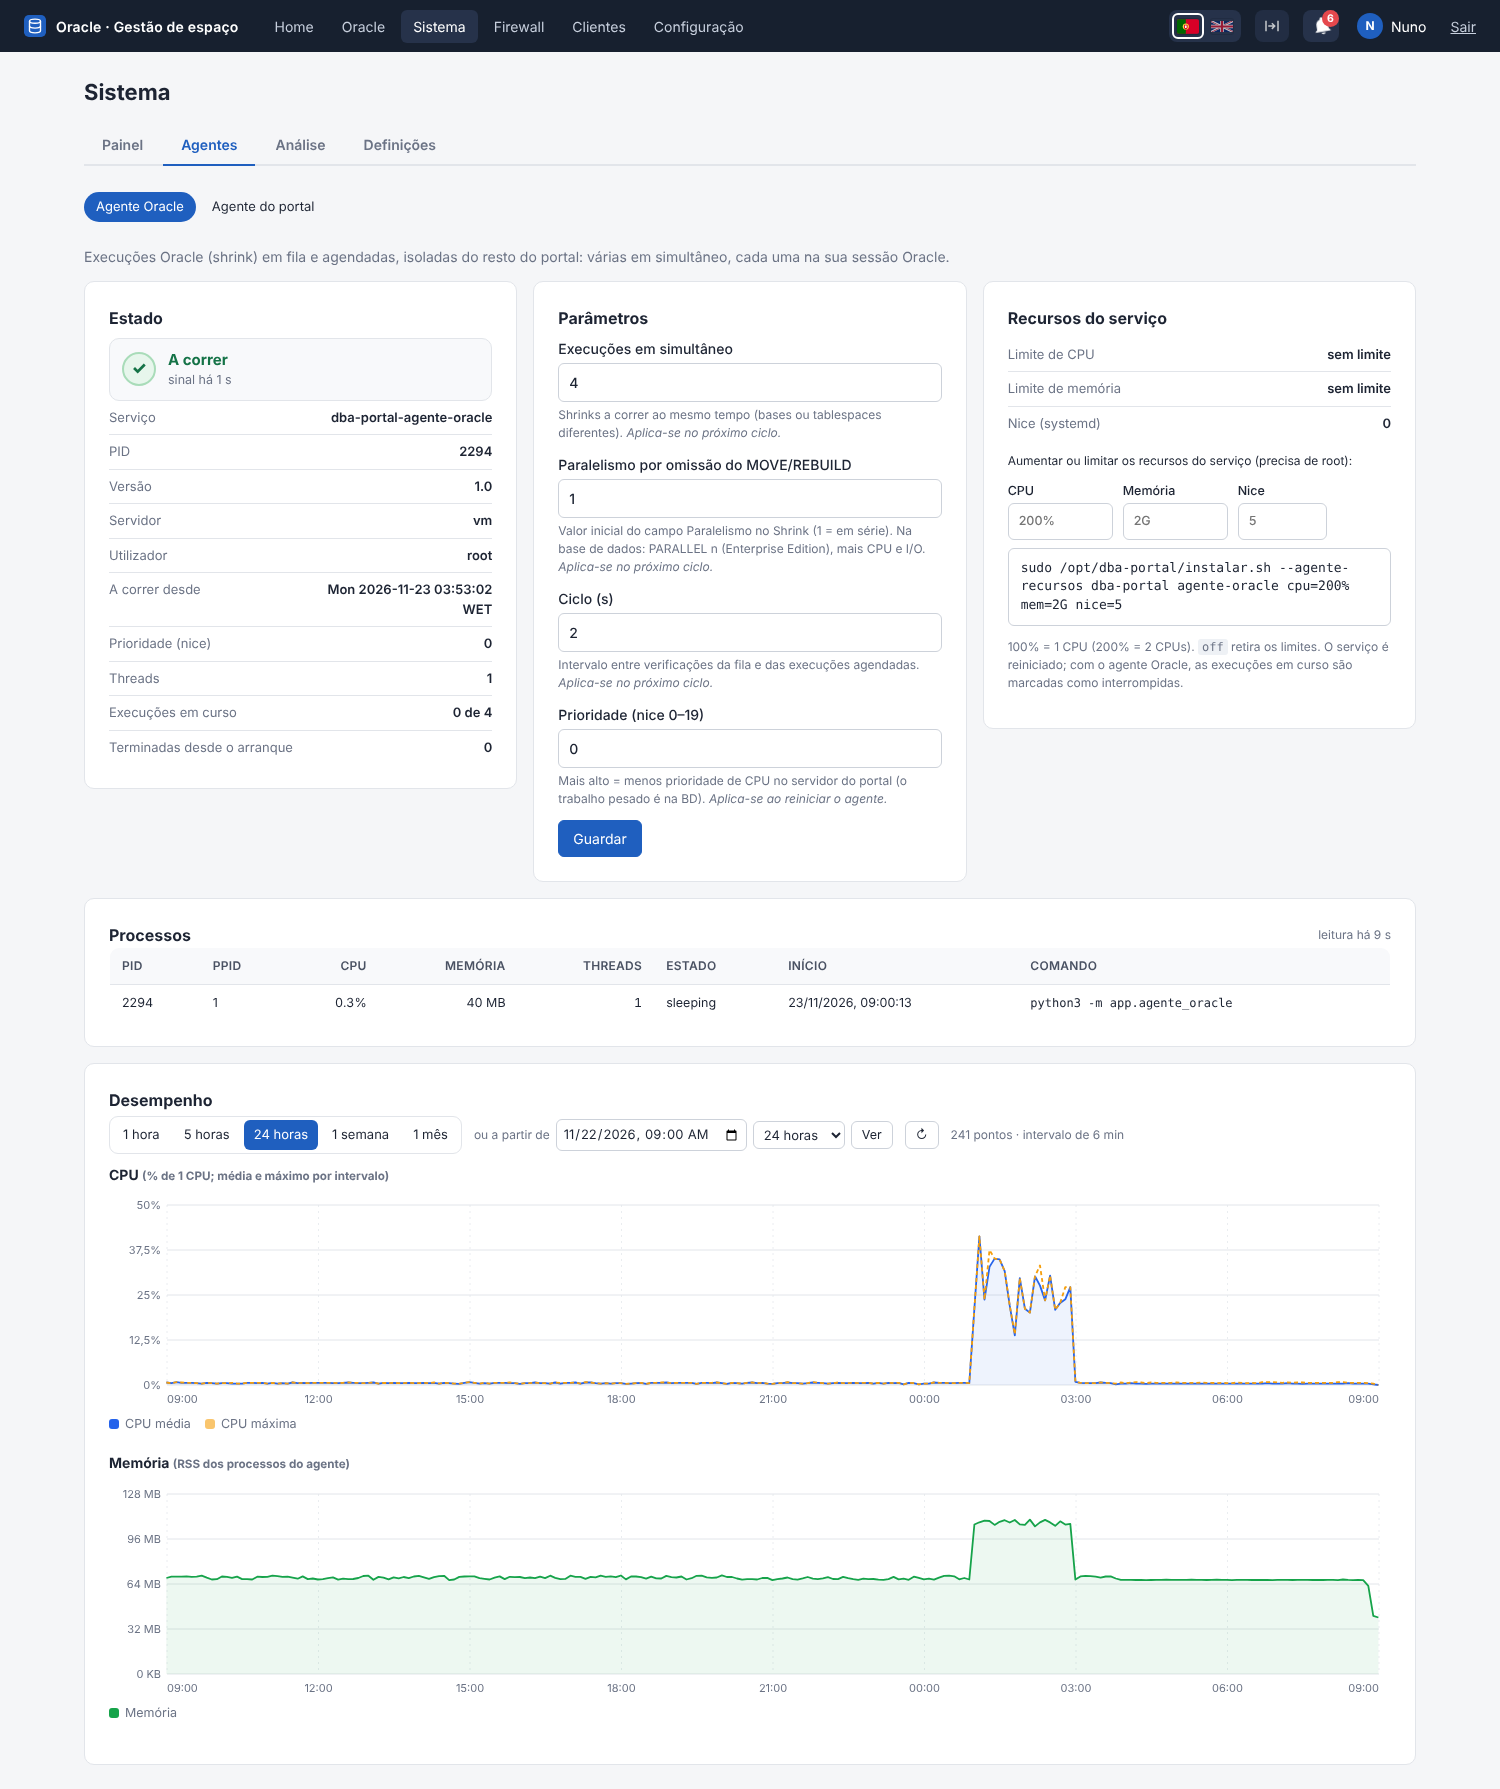
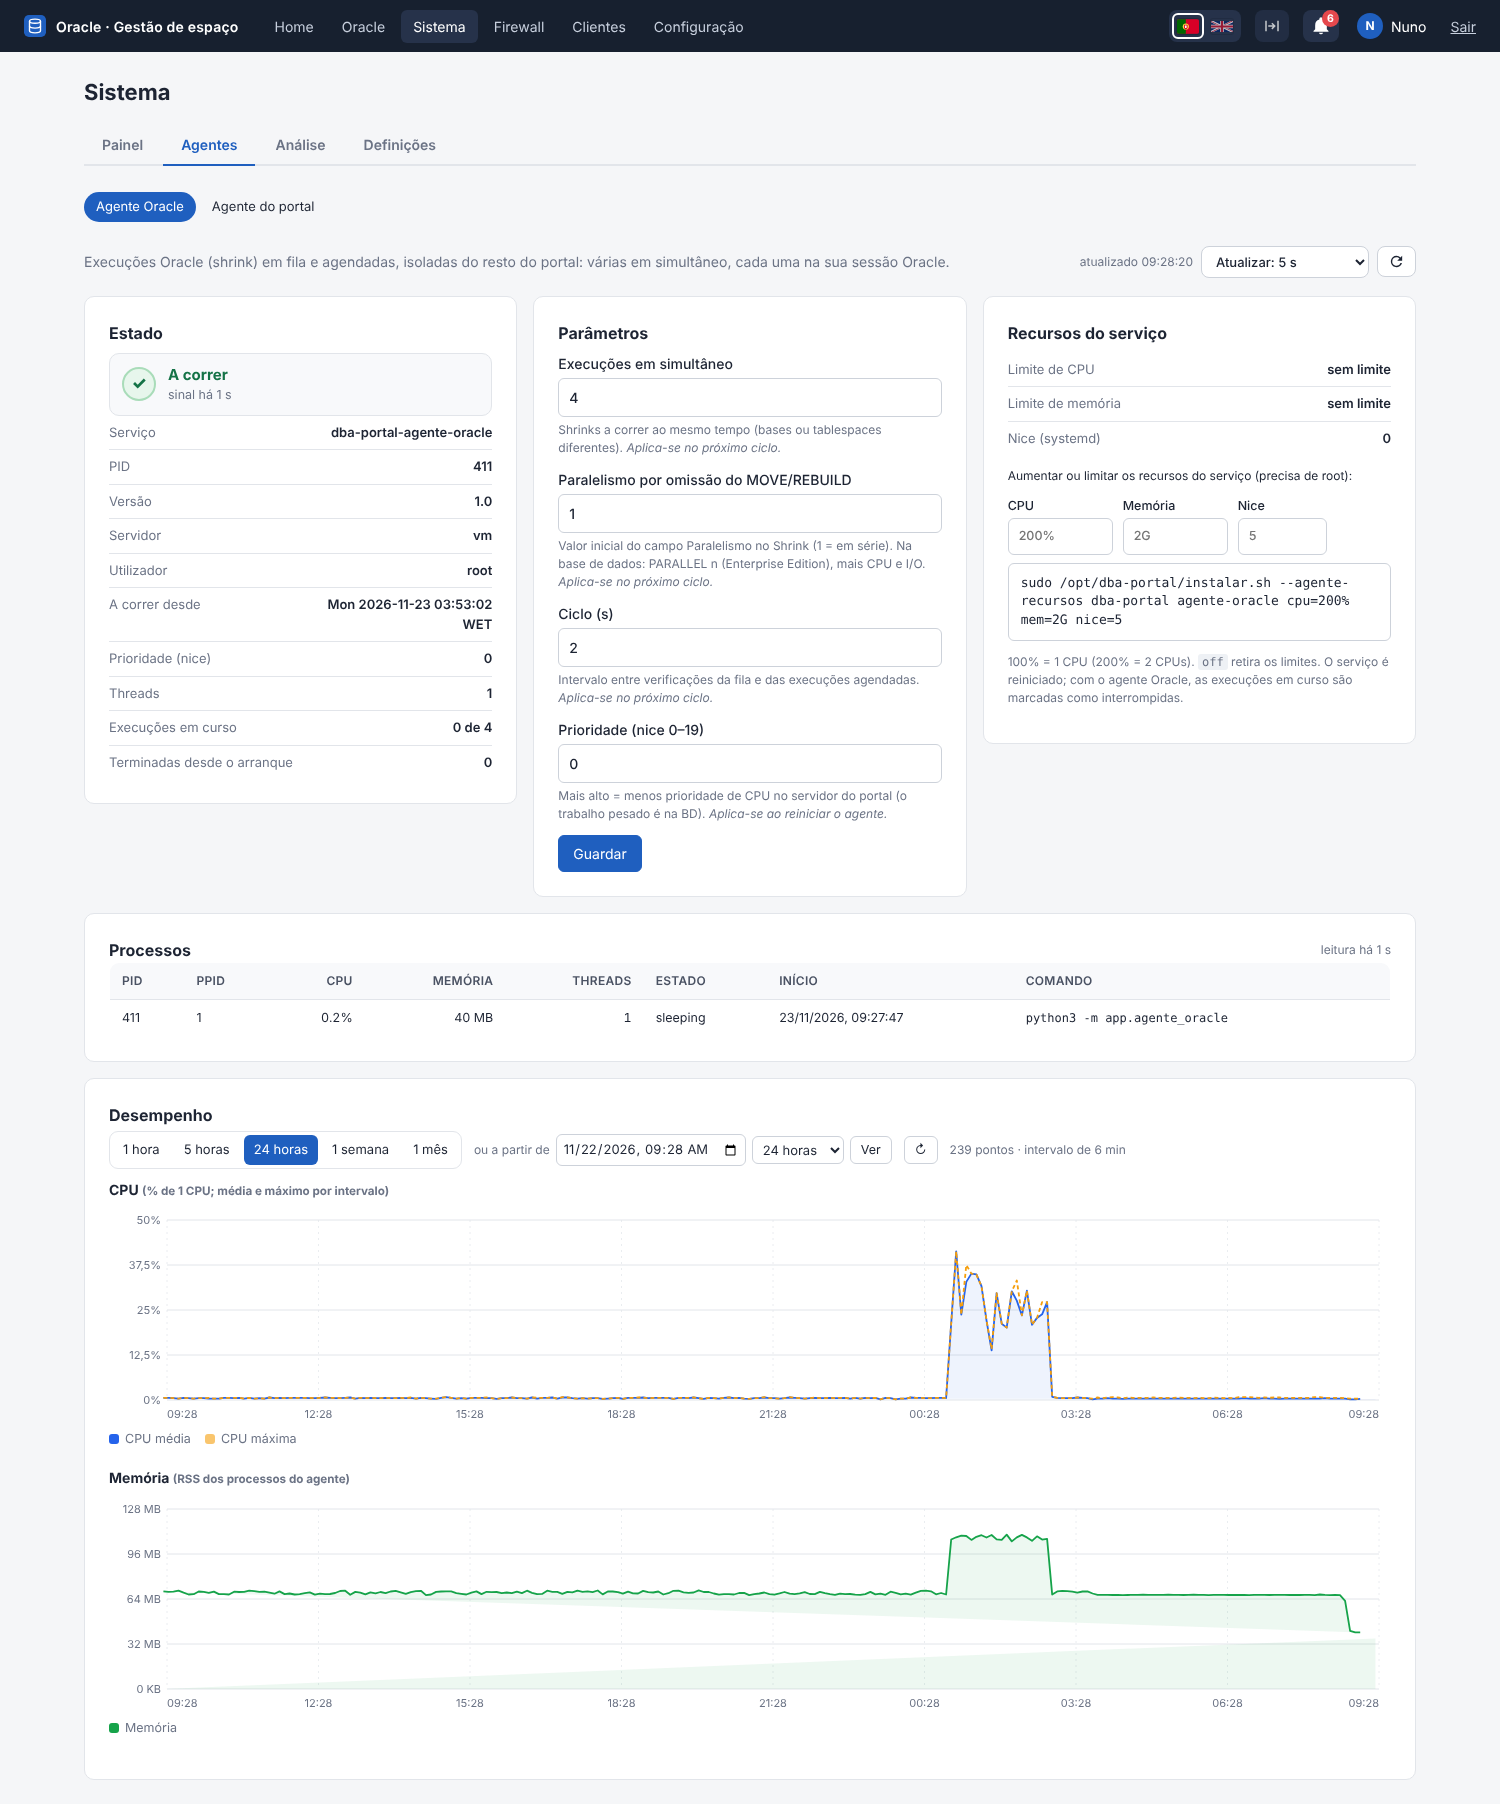
portal-oracle: atualizacao automatica configuravel em Sistema -> Agentes e Analise

diff --git a/docker/portal-oracle/app/modules/sistema/templates/sistema/agentes.html b/docker/portal-oracle/app/modules/sistema/templates/sistema/agentes.html
@@ -1,16 +1,17 @@
 {% extends "base.html" %}
-{% from "_cartoes.html" import kv, saude %}
+{% from "_cartoes.html" import kv, saude, controlos %}
 {% block title %}Sistema · Agentes{% endblock %}
 {% block content %}
 {% include "sistema/_tabs.html" %}
-<nav class="subtabs">
+<nav class="subtabs" data-ref="subtabs">
   {% for k, x in todos.items()|sort(attribute='0', reverse=True) %}
   <a href="{{ url_for('sistema.agentes', a=k) }}" class="{{ 'on' if k == a }}"><span class="dot d-{{ 'ok' if estados[k] else 'bad' }}"></span> {{ x.nome }}</a>{% endfor %}
 </nav>
-<p class="muted">{{ ag.descricao }}</p>
+<div class="dash-bar"><p class="muted" style="margin:0">{{ ag.descricao }}</p>
+  {{ controlos(editar=False, opcoes=((0, 'manual'), (5, '5 s'), (10, '10 s'), (30, '30 s'), (60, '1 min'), (300, '5 min'))) }}</div>
 
 <div class="fw-grid">
-<section class="card">
+<section class="card" data-ref="estado">
   <h2>Estado</h2>
   {% if est.ativo %}{{ saude('ok', 'A correr', 'sinal há ' ~ est.ha ~ ' s') }}
   {% else %}{{ saude('bad', 'Parado', 'sem sinal' ~ (' há ' ~ est.ha ~ ' s' if est.ha else '')) }}{% endif %}
@@ -40,7 +41,7 @@
 <section class="card">
   <h2>Recursos do serviço</h2>
   {% if recursos.backend == 'systemd' %}
-  {{ kv([('Limite de CPU', recursos.cpu), ('Limite de memória', recursos.mem), ('Nice (systemd)', recursos.nice), ('Máx. tarefas', recursos.tasks)]) }}
+  <div data-ref="rec">{{ kv([('Limite de CPU', recursos.cpu), ('Limite de memória', recursos.mem), ('Nice (systemd)', recursos.nice), ('Máx. tarefas', recursos.tasks)]) }}</div>
   <p class="small">Aumentar ou limitar os recursos do serviço (precisa de root):</p>
   <div class="rec-form">
     <label>CPU <input id="rcpu" placeholder="200%" size="6"></label>
@@ -55,7 +56,7 @@
 </section>
 </div>
 
-{% if em_curso %}
+<div data-ref="emcurso">{% if em_curso %}
 <section class="card full" style="margin-top:16px">
   <h2>Execuções em curso</h2>
   <div class="lista">{% for j in em_curso %}
@@ -64,7 +65,7 @@
         <small>{{ j.current_action or 'a correr' }}{% if j.progress %} · {{ (j.progress / 10)|round(0)|int }}%{% endif %} · desde {{ j.started_at }}{% if j.params.paralelo and j.params.paralelo > 1 %} · PARALLEL {{ j.params.paralelo }}{% endif %}</small></span></a>
   {% endfor %}</div>
 </section>
-{% endif %}
+{% endif %}</div>
 
 <section class="card full" style="margin-top:16px">
   <div class="modulo-head"><h2>Processos</h2><span class="muted small" id="pidade"></span></div>
@@ -84,6 +85,7 @@
 {% endblock %}
 {% block scripts %}
 {% include "sistema/_graficos_js.html" %}
+<script src="{{ url_for('static', filename='painel.js', v=static_v) }}"></script>
 <script>
 (() => {
   const A = '{{ a }}', T = s => (window.t ? window.t(s) : s), $ = id => document.getElementById(id);
@@ -103,8 +105,16 @@
         || `<tr><td colspan="8" class="muted">${T('Nenhum processo deste agente.')}</td></tr>`;
     } catch (e) {}
   }
-  procs(); setInterval(procs, 10000);
-  Periodo(async q => {
+  async function blocos() {   /* estado, recursos e execucoes em curso: o HTML da propria pagina */
+    const r = await fetch(location.href, {cache: 'no-store'});
+    if (!r.ok) throw new Error(r.status);
+    const doc = new DOMParser().parseFromString(await r.text(), 'text/html');
+    document.querySelectorAll('[data-ref]').forEach(el => {
+      const n = doc.querySelector(`[data-ref="${el.dataset.ref}"]`);
+      if (n && n.innerHTML !== el.innerHTML) el.innerHTML = n.innerHTML;
+    });
+  }
+  const graf = async q => {
     $('pinfo').textContent = T('A carregar…');
     const d = await buscarMetricas([A], q), s = d.series[A] || [];
     $('pinfo').textContent = `${s.length} ${T('pontos')} · ${T('intervalo de')} ${d.bucket >= 3600 ? d.bucket / 3600 + ' h' : d.bucket >= 60 ? d.bucket / 60 + ' min' : d.bucket + ' s'}`;
@@ -113,7 +123,14 @@
                {nome: T('CPU máxima'), cor: '#f59e0b', pontos: s.map(p => [p[0], p[2]]), tracejado: true}]});
     PortalGrafico.desenhar($('gmem'), {unidade: 'bytes', desde: d.desde, ate: d.ate, passo: d.bucket,
       series: [{nome: T('Memória'), cor: '#16a34a', pontos: s.map(p => [p[0], p[3]]), area: true}]});
-  });
+  };
+  const periodo = Periodo(graf);
+  procs();
+  autoAtualizar('agentes', $('ref'), $('agora'), $('upd'), async () => {
+    const q = periodo();
+    await Promise.all([blocos(), procs(), q.r ? graf(q) : null]);   /* periodo fixo (a partir de uma data) nao muda */
+  }, '10');
+  $('upd').textContent = 'atualizado ' + new Date().toLocaleTimeString('pt-PT');
 })();
 </script>
 {% endblock %}

diff --git a/docker/portal-oracle/app/modules/sistema/templates/sistema/analise.html b/docker/portal-oracle/app/modules/sistema/templates/sistema/analise.html
@@ -1,9 +1,11 @@
 {% extends "base.html" %}
 {% block title %}Sistema · Análise{% endblock %}
+{% from "_cartoes.html" import controlos %}
 {% block content %}
 {% include "sistema/_tabs.html" %}
-<p class="muted">Recursos usados pelo portal: o servidor web (Gunicorn) e os agentes. Medido pelo agente do portal a cada 10 s
+<div class="dash-bar"><p class="muted" style="margin:0">Recursos usados pelo portal: o servidor web (Gunicorn) e os agentes. Medido pelo agente do portal a cada 10 s
   (registo para os gráficos a cada 30 s, guardado 35 dias).</p>
+  {{ controlos(editar=False, opcoes=((0, 'manual'), (5, '5 s'), (10, '10 s'), (30, '30 s'), (60, '1 min'), (300, '5 min'))) }}</div>
 <div class="an-tiles" id="tiles"></div>
 
 <section class="card full" style="margin-top:16px">
@@ -25,6 +27,7 @@
 {% endblock %}
 {% block scripts %}
 {% include "sistema/_graficos_js.html" %}
+<script src="{{ url_for('static', filename='painel.js', v=static_v) }}"></script>
 <script>
 (() => {
   const T = s => (window.t ? window.t(s) : s), $ = id => document.getElementById(id);
@@ -57,16 +60,22 @@
           <small class="muted">load ${(s.load || []).map(v => v.toFixed(2)).join(' / ')}</small></div>` : '');
     } catch (e) {}
   }
-  agora(); setInterval(agora, 10000);
+  agora();
   const comps = ['web', 'agente', 'agente_oracle', 'outro', 'sistema'];
-  Periodo(async q => {
+  const graf = async q => {
     $('pinfo').textContent = T('A carregar…');
     const d = await buscarMetricas(comps, q);
     $('pinfo').textContent = `${T('intervalo de')} ${d.bucket >= 3600 ? d.bucket / 3600 + ' h' : d.bucket >= 60 ? d.bucket / 60 + ' min' : d.bucket + ' s'}`;
     const ser = (i, filtro) => comps.filter(filtro).map(c => ({nome: T(NOMES[c]), cor: CORES[c], pontos: (d.series[c] || []).map(p => [p[0], p[i]]), tracejado: c === 'sistema'}));
     PortalGrafico.desenhar($('gcpu'), {unidade: '%', desde: d.desde, ate: d.ate, passo: d.bucket, series: ser(1, c => true)});
     PortalGrafico.desenhar($('gmem'), {unidade: 'bytes', desde: d.desde, ate: d.ate, passo: d.bucket, series: ser(3, c => c !== 'sistema')});
-  });
+  };
+  const periodo = Periodo(graf);
+  autoAtualizar('analise', $('ref'), $('agora'), $('upd'), async () => {
+    const q = periodo();
+    await Promise.all([agora(), q.r ? graf(q) : null]);
+  }, '10');
+  $('upd').textContent = 'atualizado ' + new Date().toLocaleTimeString('pt-PT');
 })();
 </script>
 {% endblock %}

diff --git a/docker/portal-oracle/app/templates/_cartoes.html b/docker/portal-oracle/app/templates/_cartoes.html
@@ -36,7 +36,7 @@
 {%- endmacro %}
 
 {# Controlos do painel: atualizacao automatica (intervalo guardado no browser) e Editar #}
-{% macro controlos(refresh=True, extra='', opcoes=((0, 'manual'), (10, '10 s'), (30, '30 s'), (60, '1 min'), (300, '5 min'))) -%}
+{% macro controlos(refresh=True, extra='', opcoes=((0, 'manual'), (10, '10 s'), (30, '30 s'), (60, '1 min'), (300, '5 min')), editar=True) -%}
 <div class="dash-ctl">
   {{ extra|safe }}
   {% if refresh %}
@@ -48,8 +48,10 @@
   <button type="button" class="icon-btn" id="agora" title="Atualizar agora" aria-label="Atualizar agora">
     <svg viewBox="0 0 24 24" width="17" height="17" aria-hidden="true"><path fill="currentColor" d="M17.65 6.35A7.95 7.95 0 0 0 12 4a8 8 0 1 0 7.73 10h-2.08A6 6 0 1 1 12 6c1.66 0 3.14.69 4.22 1.78L13 11h7V4l-2.35 2.35Z"/></svg></button>
   {% endif %}
+  {% if editar %}
   <button type="button" class="icon-btn" id="editar" title="Editar painel: adicionar, esconder e reordenar cartões" aria-label="Editar painel" aria-pressed="false">
     <svg viewBox="0 0 24 24" width="17" height="17" aria-hidden="true"><path fill="currentColor" d="M3 17.25V21h3.75L17.81 9.94l-3.75-3.75L3 17.25ZM20.71 7.04a1 1 0 0 0 0-1.41l-2.34-2.34a1 1 0 0 0-1.41 0l-1.83 1.83 3.75 3.75 1.83-1.83Z"/></svg>
     <span>Editar</span></button>
+  {% endif %}
 </div>
 {%- endmacro %}

diff --git a/docker/portal-oracle/CONVERSA.md b/docker/portal-oracle/CONVERSA.md
@@ -439,3 +439,10 @@ Chat de 20 de novembro de 2026. Pedido grande, feito por fases (cada uma com o s
 > `--lista` mostra AG.ORACLE "-" e `--agente-recursos dba-portal agente-oracle ...` dá "o servico dba-portal-agente-oracle nao existe".
 
 **Resposta:** O `--atualizar` substitui o `instalar.sh` no disco, mas o bash continuava a correr a versão antiga (em memória), que ainda não criava o agente Oracle. Corrigir já: `sudo /opt/dba-portal/instalar.sh --reaplicar dba-portal`. Daqui em diante, se o `--atualizar` trouxer um `instalar.sh` diferente, o script continua automaticamente com a versão nova (`--reaplicar`).
+
+## 33. Atualização automática nos Agentes
+
+**Pergunta:**
+> quero que nos agentes os dados e informação tenha um refresh, que podemos indicar ou alterar como no home
+
+**Resposta:** Sistema → Agentes e → Análise têm, como a Home, o seletor "Atualizar: manual / 5 s / 10 s / 30 s / 1 min / 5 min" (por omissão 10 s, guardado no browser), a hora da última atualização e o botão ↻. Atualiza estado, recursos, execuções em curso, processos e gráficos (períodos relativos); o formulário de parâmetros não é tocado.

diff --git a/docker/portal-oracle/README.md b/docker/portal-oracle/README.md
@@ -262,7 +262,7 @@ Atualiza a configuração guardada, a regra `sudoers` (validada com `visudo`) e 
 
 ### Sistema → Agentes
 
-Uma sub-aba por agente (Agente Oracle, Agente do portal):
+Uma sub-aba por agente (Agente Oracle, Agente do portal). No topo, como na Home, a **atualização automática** (manual, 5 s, 10 s, 30 s, 1 min, 5 min; por omissão 10 s, guardada no browser) e o botão ↻: atualiza o estado, os recursos, as execuções em curso, os processos e os gráficos (nos períodos relativos; um período a partir de uma data fica fixo). Não atualiza com o separador escondido. A **Análise** tem o mesmo controlo.
 
 | Cartão | Conteúdo |
 |---|---|
